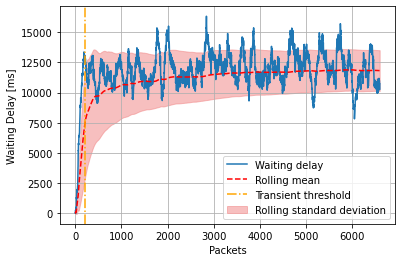
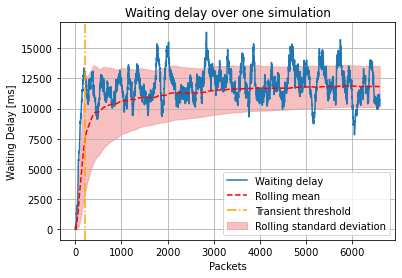
lab2 ex1 fig titles

Changed region(s): [[0.0, 0.0, 0.9851, 0.9771]]

diff --git a/Lab2/Task1.py b/Lab2/Task1.py
@@ -113,6 +113,7 @@ if __name__ == '__main__':
     plt.grid()
     plt.xlabel("Packets")
     plt.ylabel("Waiting Delay [ms]")
+    plt.title('Waiting delay over one simulation')
     plt.show()
 
     # Plot xk coefficent
@@ -126,6 +127,7 @@ if __name__ == '__main__':
     plt.legend()
     plt.xlabel("Packets")
     plt.ylabel("xk")
+    plt.title('Average xk averaged over 100 simulations')
     plt.show()
 
 
